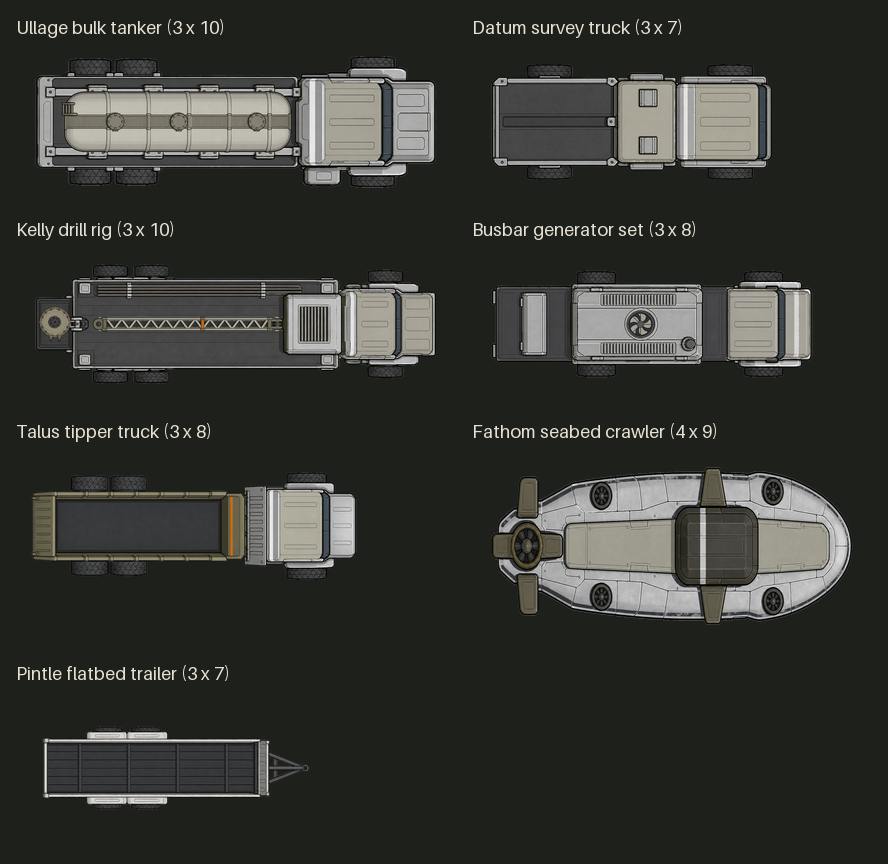
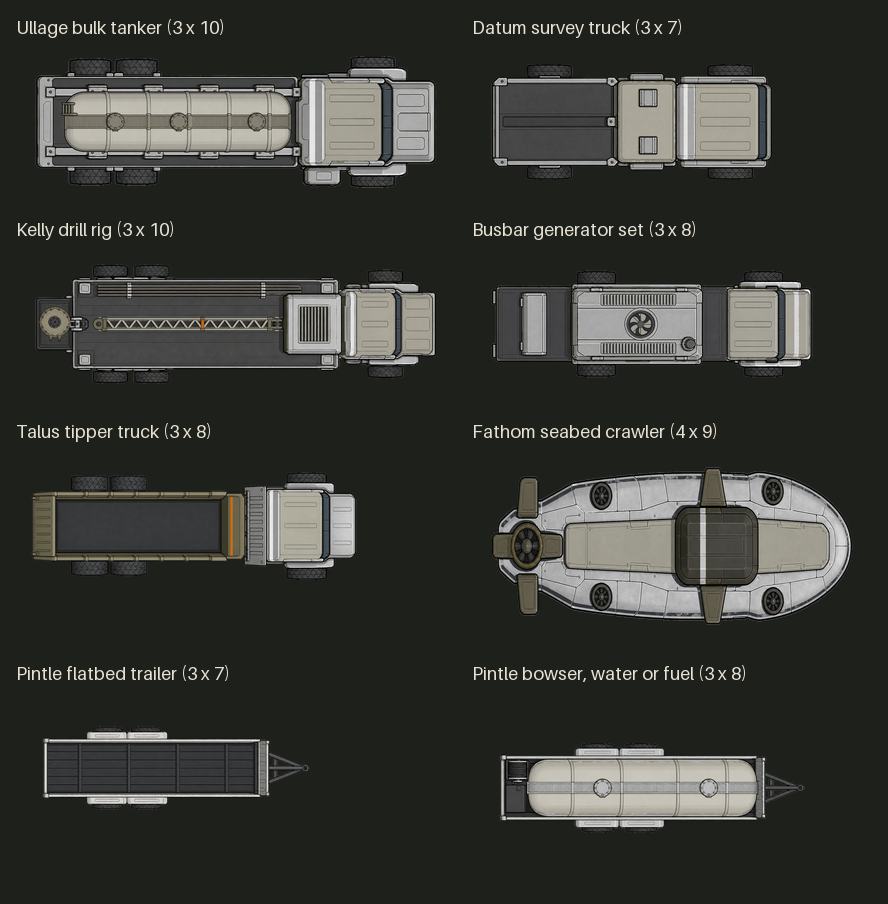
The Pintle bowsers get their own picture and upgrade overlays (Vehicles 0.56.0 Draft)
- One body shared by the water and fuel bowsers (owner, 16 Nov 2026), told apart by the stripe:
  blue for water, orange for fuel. Owner's picks: body 1 of 3, jacket 2, reel 2.
- The lagged tank shows as a padded jacket, the second hose as a second reel across the front.
- Drawn 7.62 cells long as before, in a 5 x 9 picture; paint threshold and accent hue tuned so
  the walkway is not speckled and the stripe takes the accent paint.
- OpenAI image API, US$0.326 for 7 images; masters on art-masters, the rest on art-references.
- The player guide's vehicle figure and the bowser text updated.

diff --git a/mods/PhobosVehicles/Textures/Phobos/Vehicles/PintleBowser/PintleBowser.record.md b/mods/PhobosVehicles/Textures/Phobos/Vehicles/PintleBowser/PintleBowser.record.md
@@ -1,0 +1,26 @@
+# PintleBowser textures: asset record
+
+**The Pintle water and fuel bowsers' own picture since D'thorga Vehicles 0.56.0**, shared by both (owner, 16 Nov 2026: one body, told apart by paint). Made on 16 Nov 2026 with OpenAI gpt-image-2 through the image API, at medium quality: **AI-generated, picked by the owner on 16 November 2026** from a labelled sheet that showed each attempt large and at about in-game size on soil-coloured ground. Until then both bowsers borrowed the Pintle flatbed's picture, scaled up. Every reference uploaded was our own picked art: the Pintle flatbed body (`flatbed-trailer-body-north-2.png`, for its chassis and style) and the bulk tanker's liquid tank (`BulkTanker_LiquidTank_north.png`, for how a tank is drawn) for the body; the picked body for the two overlays. No game or other author's art was uploaded or used. The prompts are in `assets/phobos-vehicles/requests/bowser-pilot.json` and `bowser-overlays.json`; the masters are on the `art-masters` branch (`vehicles/bowser/`), the attempts not picked on `art-references` (`generated/vehicles/bowser/`).
+
+**Spend: US$0.326 for 7 images** (body: 3 attempts, US$0.147 under a US$0.45 cap; overlays: 2 attempts each, US$0.179 under a US$0.60 cap). Nothing refused by moderation.
+
+**Sizing (rule of 9 Nov 2026):** drawSize was (4.57, 9.14), 585 x 1170 px in game; requested at 896 x 1792, 1.53 times. No other trailer is active on the owner's list. Exported by `scripts/art/export_vehicle.py body --cells-long 160/21 --draw 5 9 --min-saturation 0.12 --accent-hue 8 37` with five `--hole` points (the drawbar frame's four openings and the towing eye). 160/21 is the flatbed's 20/3 scaled by 8/7, so the trailer is drawn 7.62 cells long, the same as before; the export takes whole cells only, so the picture is 5 x 9 (more empty margin) instead of 4.57 x 9.14. **Paint:** the walkway and hatches (saturation 0.15 to 0.18) sat on the default 0.16 threshold and came out speckled, so the threshold was lowered to 0.12 (the pale tank, 0.07, stays bare); the side stripe's hue (34 to 35 degrees) sat on the accent range's top, so it was widened to 37. 2.23 cells wide at 128 px a cell. Checked by eye on dark ground with both overlays fitted.
+
+**Picks and reasons:** body attempt 1 of 3 (its axles sit about 0.7 cells behind the picture's middle, nearest the follow rule's 0.31; attempt 2's sat 1.35 behind); jacket 2 of 2 (heavier straps that survive at in-game size); reel 2 of 2 (squarer, more straight-down).
+
+**Overlays** (`export_vehicle.py overlay --like PintleBowser.transform.json --fit ...`, boxes in master pixels): `PintleBowser_Lagging` over the tank's outline (292 306 604 1550), shown by the lagged tank node; `PintleBowser_SecondHose` across the front of the tank behind the headboard (353 318 543 500, agent placement: the rear holds the first reel and the pump box), shown by the second hose node. The jacket has its own orange edge, so a lagged water bowser shows orange there rather than its blue.
+
[14 lines of base64/hex data omitted]

diff --git a/mods/PhobosVehicles/README.md b/mods/PhobosVehicles/README.md
@@ -14,7 +14,8 @@ Version 0.56.0, built 16 November 2026 for House D'thorga. **Not yet tested in g
 - **New in 0.55.0 (not yet tested in game): two tank trailers, the Pintle water bowser and the Pintle fuel bowser**, 3 x 8 cells and
   2,500 litres each. **They need D'thorga Framework 0.111.0 or later.** **The water bowser exists only with Dubs Bad Hygiene**, and not in
   its lite mode. **A colonist with construction work sets a bowser up and packs it up**, and **a set-up trailer cannot be hitched**:
-  pack it up first. Their pictures are the Pintle flatbed's, borrowed until their own are made; see [below](#the-pintle-water-and-fuel-bowsers).
+  pack it up first. **New in 0.56.0:** their own picture, a tank on the Pintle chassis, with a blue stripe on the water bowser and an
+  orange one on the fuel bowser; see [below](#the-pintle-water-and-fuel-bowsers).
 - **New in 0.54.0 (not yet tested in game): the Pintle flatbed trailer is as wide as the trucks**, 3 x 7 cells (it was 2 x 5),
   and carries 5,000 kg. **Park every Pintle in open ground before updating**: it grows by a cell on each side and two in length.
 - **Three helicopters take a cargo hook, and so a sling, a fire bucket and the litter kit** (not yet tested in game): the Cherokee
@@ -247,7 +248,9 @@ pumps **400 litres an hour**. They take the load to where it is needed, and stay
 - **Upgrades:** a **lagged tank** (insulation: the load takes four times as long to reach the outside temperature, so water freezes later
   and fuel stays thin longer in the cold) and a **second hose** (the pump moves half as much again).
 - **Its weight is the towing vehicle's to pull**: a full bowser weighs about 4.5 tonnes with water, 4 with fuel.
-- **Pictures:** each borrows the Pintle flatbed's picture, scaled to its size, until its own is made. The pump has no sound yet; the hoses,
+- **Pictures:** both share one picture, a tank on the Pintle chassis, told apart by the stripe along the tank: **blue for water, orange
+  for fuel** (repaint either as you like). The lagged tank shows as a padded jacket over the tank, and the second hose as a second reel
+  across the front of the tank. The pump has no sound yet; the hoses,
   relief valve, leak and purge sound as the tanker's do.
 
 Figures, all authored and approximate: the capacity follows the Ullage's general tank (3,000 litres over six rows of shell; a bowser has

diff --git a/mods/PhobosVehicles/CHANGELOG.md b/mods/PhobosVehicles/CHANGELOG.md
@@ -7,15 +7,18 @@ tested in game unless an entry says the owner tested it.
 
 ## [0.56.0] - 2026-11-16 - Draft
 
-Our vehicles get the new driver system
+Our vehicles get the new driver system, and the bowsers get their own picture
 
 ### Added
+
+- **The Pintle water and fuel bowsers have their own picture**: a pale tank with a walkway and hatches on the Pintle chassis, a hose reel and pump at the rear, picked by the owner (16 November 2026). Both share it and are told apart by the stripe along the tank, **blue on the water bowser and orange on the fuel bowser**, which the player can repaint. Until now both borrowed the Pintle flatbed's picture. **Their upgrades show**: the lagged tank as a padded jacket over the tank, the second hose as a second reel across the front of the tank. Drawn the same length as before. AI-generated with the OpenAI image API (US$0.33 for seven attempts); see the texture record. Not yet tested in game.
 
 - **The driver system on every vehicle this mod gives its own list of systems**: our generator set, and the GTek L-ATV and MaxxPro, the HUMVEE, the RimThunder tanks and HEMTT, and the Trains of the Rim locomotives from their authors' mods. A driver who is hurt, drugged or tired drives them slower, gently, as on every other vehicle. Needs D'thorga Framework 0.113.0. Not yet tested in game.
 
 ### Compatibility and limits
 
 - No settings were added or changed here; the driver system is switched off in D'thorga Framework's list of systems.
+- A lagged water bowser shows the jacket's own orange edge, not its blue stripe. The pump still has no sound of its own.
 
 ### Save compatibility
 

diff --git a/docs/player-guide/working-vehicles.md b/docs/player-guide/working-vehicles.md
@@ -165,7 +165,8 @@ drivetrain model can tow** in D'thorga Framework's settings. A broken drawbar mu
 ## Pintle water and fuel bowsers
 
 Not yet tested in game. Two tank trailers, 3 x 8 cells: a **water bowser** (only with Dubs Bad Hygiene) and a **fuel bowser**. Each holds
-2,500 litres and pumps 400 litres an hour. Until their own pictures are made they look like the flatbed.
+2,500 litres and pumps 400 litres an hour. Both look alike, a tank on the flatbed's chassis: **a blue stripe along the tank means
+water, an orange one fuel**.
 
 1. **Build** from the **motor pool** tab, after **vehicle parts** research.
 2. **Park it** where the load is wanted, unhitched, and press **Set up**. A colonist with construction work comes and sets it up; until
